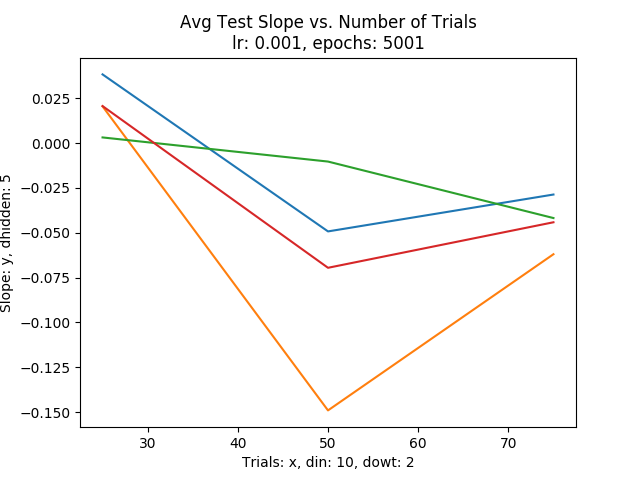
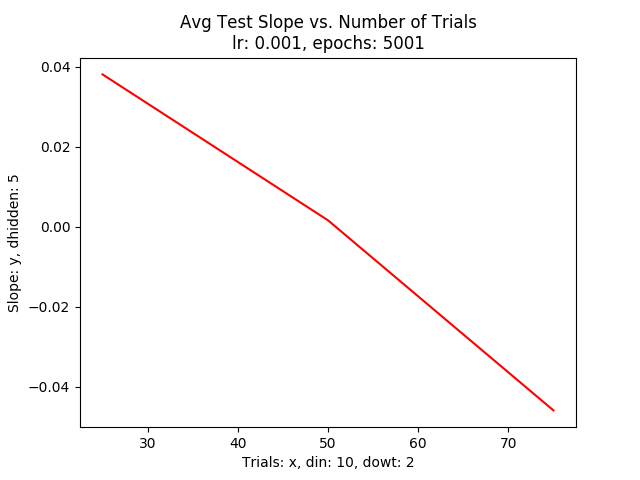
again

diff --git a/profile.py b/profile.py
@@ -66,6 +66,7 @@ if __name__ == '__main__':
         
         
     for inx, slopes in enumerate(dataset):
+        plt.figure(1)
         plt.plot(sizes, slopes)
         plt.title("Test Loss Slope vs. Number of Trials\nlr: {}, epochs: {}"
                   .format(lr, epochs))
@@ -73,8 +74,8 @@ if __name__ == '__main__':
         plt.ylabel("Slope: y, dhidden: {}".format(dhidden))
         plt.savefig("prof"+str(inx))
 
-    plt.figure(1)
-    plt.plot(sizes, cumsum)
+    plt.figure(2)
+    plt.plot(sizes, cumsum, 'r-')
     plt.title("Avg Test Slope vs. Number of Trials\nlr: {}, epochs: {}"
               .format(lr, epochs))
     plt.xlabel("Trials: x, din: {}, dowt: {}".format(din, dowt))
